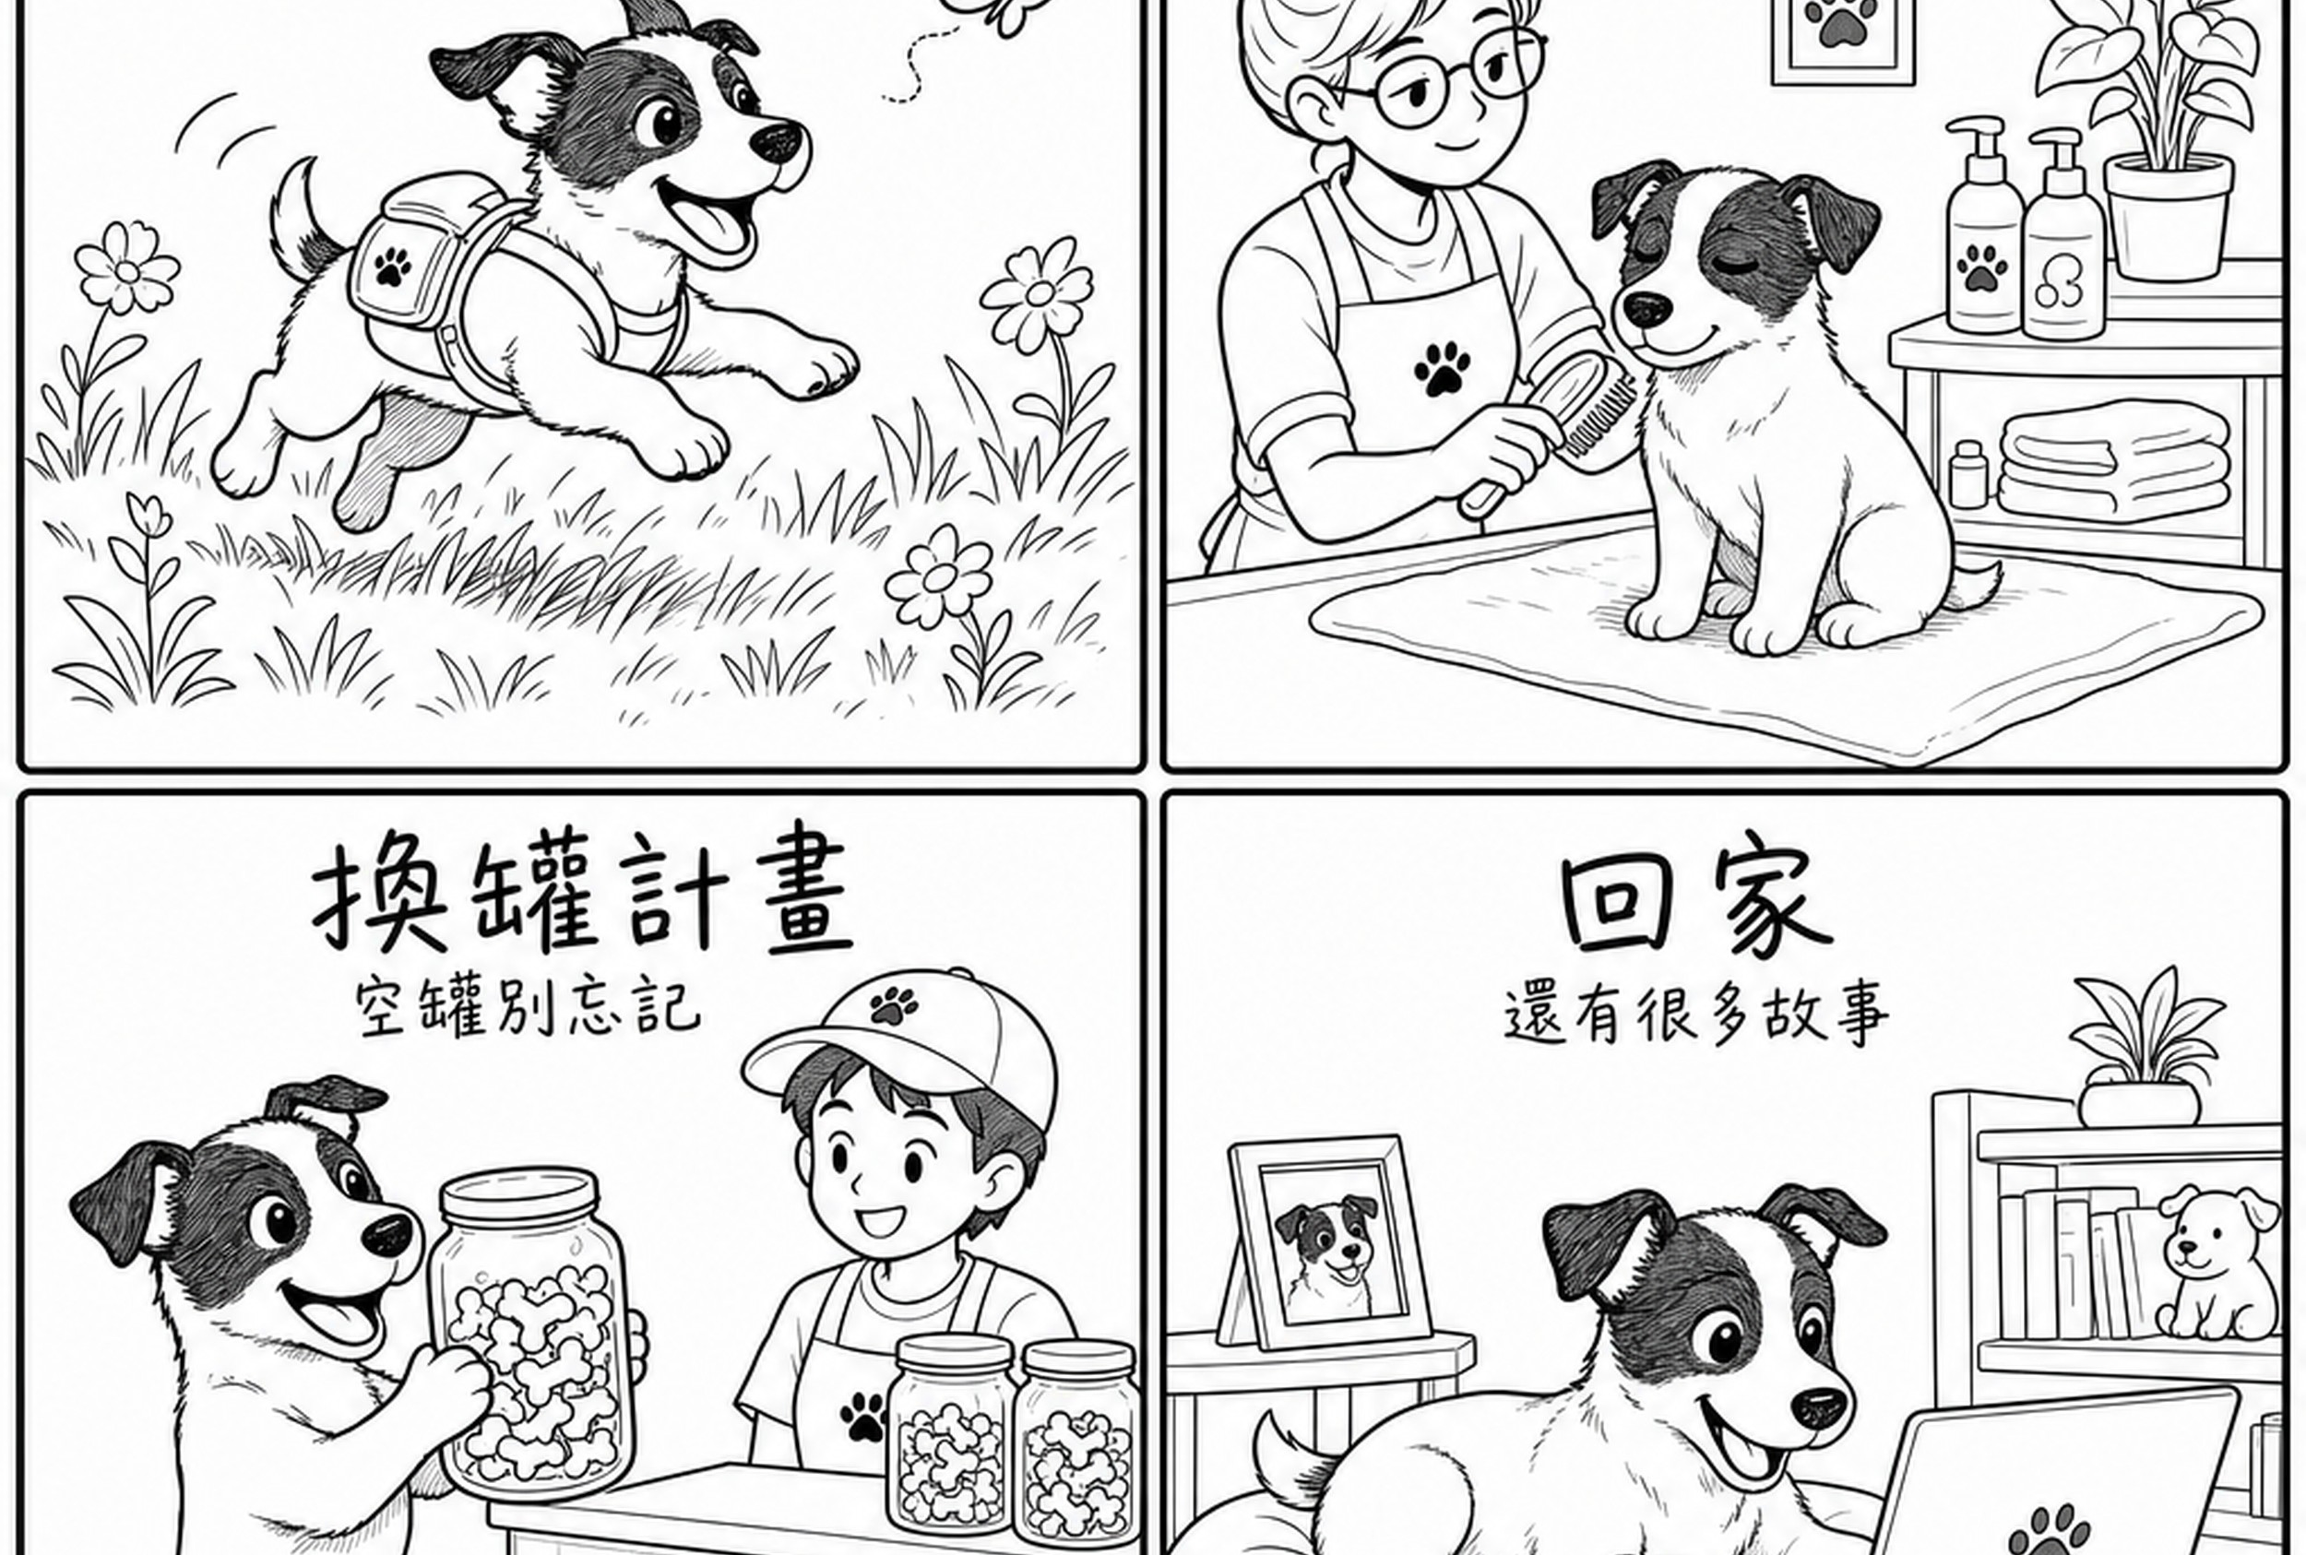
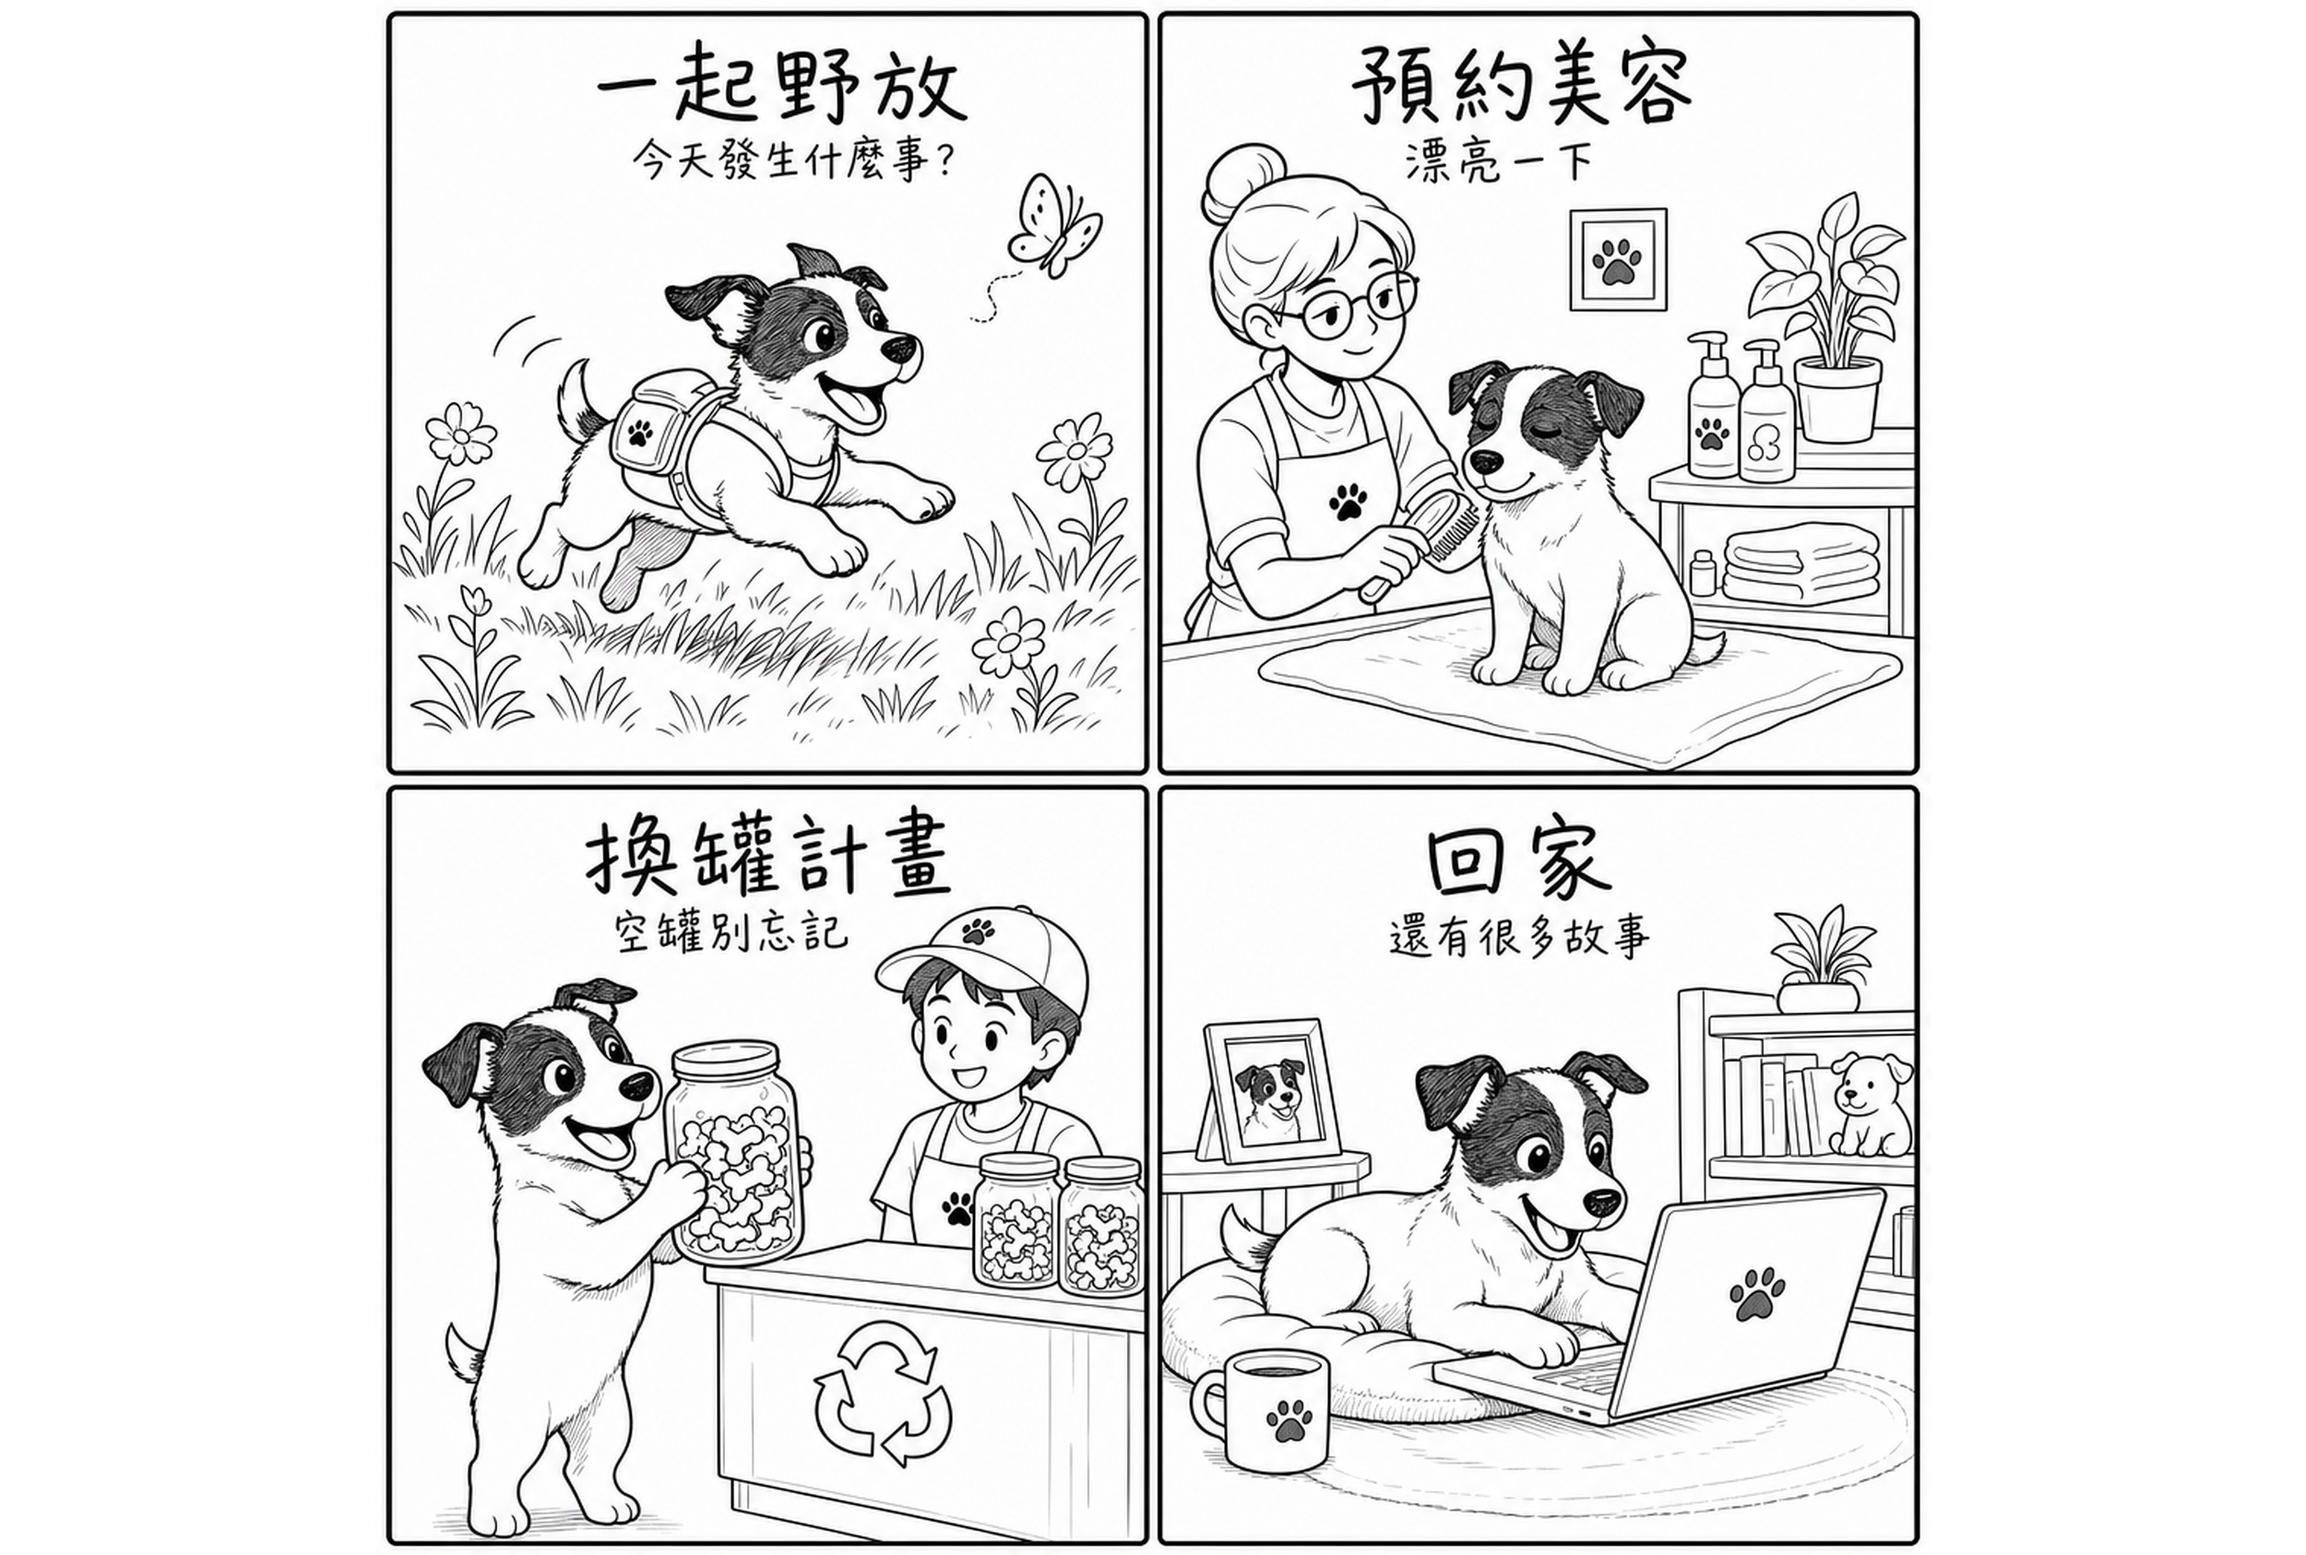
fix(line): Rich Menu 改 contain 留邊，避免漫畫文字被裁切
原圖為正方形，先前 cover 縮放會切掉四格標題。改為等比縮放＋白邊填滿 2500×1686，熱區對齊實際圖面。

diff --git a/scripts/deploy-line-rich-menu.ts b/scripts/deploy-line-rich-menu.ts
@@ -5,6 +5,7 @@
  *   LINE_CHANNEL_ACCESS_TOKEN=xxx npx tsx scripts/deploy-line-rich-menu.ts
  *
  * 圖檔優先：public/line/rich-menu-comic-2x2.jpg
+ * 熱區依 rich-menu-comic-2x2.meta.json 的 content box（contain 留邊後的實際圖面）。
  *
  * 熱區：
  *   左上 一起野放 → 一起搞事／新鮮事
@@ -27,43 +28,88 @@ const headers = {
   'Content-Type': 'application/json',
 };
 
+const CANVAS_W = 2500;
+const CANVAS_H = 1686;
+
+type ContentBox = { x: number; y: number; width: number; height: number };
+
+function loadContentBox(): ContentBox {
+  const metaPath = resolve('public/line/rich-menu-comic-2x2.meta.json');
+  if (existsSync(metaPath)) {
+    const meta = JSON.parse(readFileSync(metaPath, 'utf8')) as {
+      content?: ContentBox;
+    };
+    if (
+      meta.content &&
+      Number.isFinite(meta.content.x) &&
+      Number.isFinite(meta.content.y) &&
+      Number.isFinite(meta.content.width) &&
+      Number.isFinite(meta.content.height)
+    ) {
+      return meta.content;
+    }
+  }
+  // 後備：整張等分（舊 cover 圖）
+  return { x: 0, y: 0, width: CANVAS_W, height: CANVAS_H };
+}
+
+/** 左格含左側白邊、右格含右側白邊，避免點到留邊沒反應。 */
+function buildAreas(content: ContentBox) {
+  const midX = content.x + Math.floor(content.width / 2);
+  const midY = content.y + Math.floor(content.height / 2);
+  const leftW = midX;
+  const rightW = CANVAS_W - midX;
+  const topH = midY;
+  const bottomH = CANVAS_H - midY;
+
+  return [
+    {
+      bounds: { x: 0, y: 0, width: leftW, height: topH },
+      action: { type: 'message' as const, text: '一起野放' },
+    },
+    {
+      bounds: { x: midX, y: 0, width: rightW, height: topH },
+      action: { type: 'message' as const, text: '預約美容' },
+    },
+    {
+      bounds: { x: 0, y: midY, width: leftW, height: bottomH },
+      action: { type: 'message' as const, text: '換罐計畫' },
+    },
+    {
+      bounds: { x: midX, y: midY, width: rightW, height: bottomH },
+      action: { type: 'message' as const, text: '回家' },
+    },
+  ];
+}
+
 async function main() {
   const listRes = await fetch(`${API}/richmenu/list`, {
     headers: { Authorization: `Bearer ${TOKEN}` },
   });
+  let existing: { richMenuId: string; name: string }[] = [];
   if (listRes.ok) {
     const list = (await listRes.json()) as { richmenus?: { richMenuId: string; name: string }[] };
+    existing = list.richmenus ?? [];
     console.log(
       'existing rich menus:',
-      (list.richmenus ?? []).map((m) => `${m.name} (${m.richMenuId})`).join(', ') || '(none)',
+      existing.map((m) => `${m.name} (${m.richMenuId})`).join(', ') || '(none)',
     );
   }
 
-  const halfW = 1250;
-  const halfH = 843;
+  const content = loadContentBox();
+  const areas = buildAreas(content);
+  console.log('content box', content);
+  console.log(
+    'areas',
+    areas.map((a) => `${a.action.text} ${JSON.stringify(a.bounds)}`).join(' | '),
+  );
+
   const body = {
-    size: { width: 2500, height: 1686 },
+    size: { width: CANVAS_W, height: CANVAS_H },
     selected: true,
     name: 'furmosa-comic-2x2',
     chatBarText: '選單',
-    areas: [
-      {
-        bounds: { x: 0, y: 0, width: halfW, height: halfH },
-        action: { type: 'message', text: '一起野放' },
-      },
-      {
-        bounds: { x: halfW, y: 0, width: halfW, height: halfH },
-        action: { type: 'message', text: '預約美容' },
-      },
-      {
-        bounds: { x: 0, y: halfH, width: halfW, height: 1686 - halfH },
-        action: { type: 'message', text: '換罐計畫' },
-      },
-      {
-        bounds: { x: halfW, y: halfH, width: halfW, height: 1686 - halfH },
-        action: { type: 'message', text: '回家' },
-      },
-    ],
+    areas,
   };
 
   const createRes = await fetch(`${API}/richmenu`, {
@@ -91,9 +137,8 @@ async function main() {
     process.exit(1);
   }
   const bytes = readFileSync(imagePath);
-  const contentType = imagePath.endsWith('.jpg') || imagePath.endsWith('.jpeg')
-    ? 'image/jpeg'
-    : 'image/png';
+  const contentType =
+    imagePath.endsWith('.jpg') || imagePath.endsWith('.jpeg') ? 'image/jpeg' : 'image/png';
   console.log('uploading', imagePath, bytes.length, 'bytes');
 
   const uploadRes = await fetch(
@@ -125,7 +170,19 @@ async function main() {
     process.exit(1);
   }
   console.log('set as default for all users');
-  console.log('Done. Reopen chat → 2×2 comic menu.');
+
+  // 清掉同名舊選單，避免 OA 裡堆太多
+  for (const m of existing) {
+    if (m.name === 'furmosa-comic-2x2' && m.richMenuId !== richMenuId) {
+      const del = await fetch(`${API}/richmenu/${m.richMenuId}`, {
+        method: 'DELETE',
+        headers: { Authorization: `Bearer ${TOKEN}` },
+      });
+      console.log('deleted old', m.richMenuId, del.status);
+    }
+  }
+
+  console.log('Done. Reopen chat → 2×2 comic menu (text fully visible).');
 }
 
 main().catch((e) => {

diff --git a/scripts/prepare-comic-rich-menu.py b/scripts/prepare-comic-rich-menu.py
@@ -1,0 +1,69 @@
+#!/usr/bin/env python3
+"""把 2×2 漫畫原圖等比縮放進 LINE Rich Menu 尺寸，不裁切內容。
+
+- 來源：public/line/comic-menu-2x2-source.png（或參數指定）
+- 輸出：public/line/rich-menu-comic-2x2.jpg（2500×1686）
+- 方法：contain + 白邊 letterbox（不改動畫作像素內容）
+- 同步寫入 .meta.json，供 deploy 腳本對齊熱區
+"""
+from __future__ import annotations
+
+import json
+import sys
+from pathlib import Path
+
+from PIL import Image
+
+ROOT = Path(__file__).resolve().parents[1]
+DEFAULT_SRC = ROOT / "public/line/comic-menu-2x2-source.png"
+OUT_JPG = ROOT / "public/line/rich-menu-comic-2x2.jpg"
+OUT_PNG = ROOT / "public/line/rich-menu-comic-2x2.png"
+OUT_META = ROOT / "public/line/rich-menu-comic-2x2.meta.json"
+
+CANVAS_W, CANVAS_H = 2500, 1686
+MAX_JPG_BYTES = 950_000
+
+
+def prepare(src: Path) -> dict:
+    if not src.exists():
+        raise SystemExit(f"找不到來源圖：{src}")
+
+    original = Image.open(src).convert("RGB")
+    sw, sh = original.size
+    scale = min(CANVAS_W / sw, CANVAS_H / sh)
+    nw = int(round(sw * scale))
+    nh = int(round(sh * scale))
+    resized = original.resize((nw, nh), Image.Resampling.LANCZOS)
+
+    canvas = Image.new("RGB", (CANVAS_W, CANVAS_H), (255, 255, 255))
+    ox = (CANVAS_W - nw) // 2
+    oy = (CANVAS_H - nh) // 2
+    canvas.paste(resized, (ox, oy))
+
+    OUT_JPG.parent.mkdir(parents=True, exist_ok=True)
+    canvas.save(OUT_PNG)
+    quality_used = 90
+    for q in (90, 85, 80, 75, 70):
+        canvas.save(OUT_JPG, "JPEG", quality=q, optimize=True)
+        quality_used = q
+        if OUT_JPG.stat().st_size <= MAX_JPG_BYTES:
+            break
+
+    meta = {
+        "source": str(src.relative_to(ROOT)) if src.is_relative_to(ROOT) else str(src),
+        "canvas": {"width": CANVAS_W, "height": CANVAS_H},
+        "content": {"x": ox, "y": oy, "width": nw, "height": nh},
+        "method": "contain-letterbox-white",
+        "jpegQuality": quality_used,
+        "jpegBytes": OUT_JPG.stat().st_size,
+        "note": "Artwork unchanged; only scaled and padded. Tap areas use content box (+ side gutters).",
+    }
+    OUT_META.write_text(json.dumps(meta, ensure_ascii=False, indent=2) + "\n")
+    return meta
+
+
+if __name__ == "__main__":
+    src = Path(sys.argv[1]) if len(sys.argv) > 1 else DEFAULT_SRC
+    meta = prepare(src)
+    print(json.dumps(meta, ensure_ascii=False, indent=2))
+    print(f"wrote {OUT_JPG}")

diff --git a/docs/LINE-SETUP.md b/docs/LINE-SETUP.md
@@ -2,20 +2,22 @@
 
 ## 資訊架構（一定要對）
 
-底部 **Rich Menu 是三張直向大卡**，不是六宮格 icon 功能列。
+底部 **Rich Menu 是四格漫畫（2×2）**，不是六宮格 icon 功能列。
 
 ```
-┌──────────────────────────────┐
-│ ♻ 換罐計畫 · 一罐一罐累積。   │
-├──────────────────────────────┤
-│ 🔥 一起搞事 · 最近又有新鮮事。 │
-├──────────────────────────────┤
-│ 🌿 野放中 · 看看匠寵跑去哪。   │
-└──────────────────────────────┘
-         ↓ 各開卡片式 Flex carousel
+┌────────────┬────────────┐
+│ 一起野放    │ 預約美容    │  → 新鮮事／搞事｜美容導引
+│ 今天發生…  │ 漂亮一下    │
+├────────────┼────────────┤
+│ 換罐計畫    │ 回家        │  → 換罐制度｜官網／社群／故事
+│ 空罐別忘記  │ 還有很多故事│
+└────────────┴────────────┘
 ```
 
-視覺語言：白底留白、手繪插畫 hero、整卡可點（一個 CTA），不用灰底按鈕列。
+圖檔：`public/line/rich-menu-comic-2x2.jpg`（由原圖 contain＋白邊縮放至 2500×1686，**不裁切**文字）  
+原圖：`public/line/comic-menu-2x2-source.png`  
+重建：`python3 scripts/prepare-comic-rich-menu.py`  
+點擊後進卡片式 Flex（換罐／搞事／野放世界）。
 
 | 世界 | 只放什麼 | 禁止出現 |
 |------|----------|----------|
